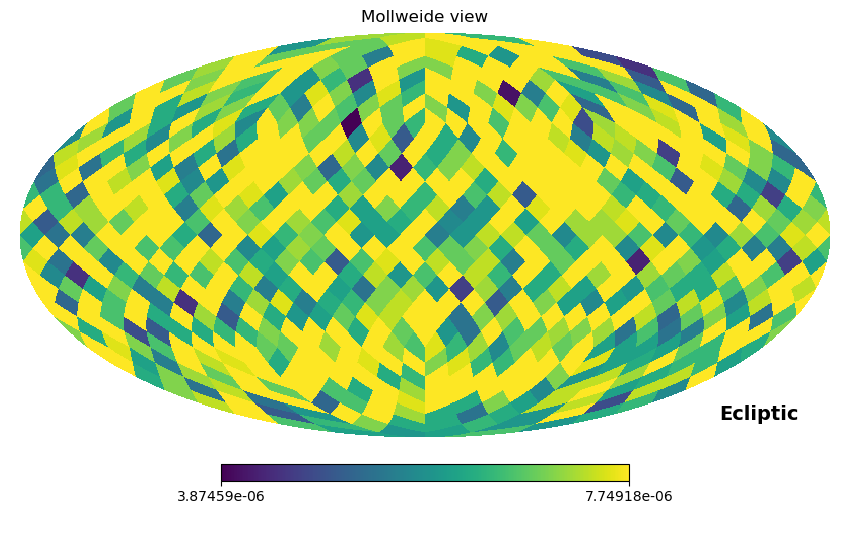
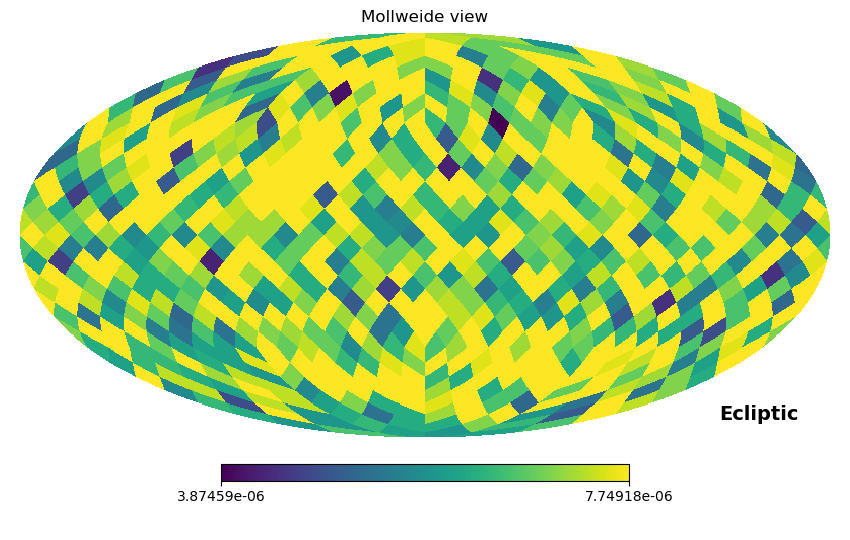
update

diff --git a/density_sky.py b/density_sky.py
@@ -6,12 +6,21 @@ from astropy.coordinates import SkyCoord
 import astropy.units as u
 from astropy.table import Table
 
-# read TIC v8 within 100 pc
-dat = pd.read_csv("ticv8_100pc.csv")
-
-dpc = 50
+db="GAIA"
+if db == "TICv8":
+    # read TIC v8 within 200 pc this csv is computed in allthesky directory in whaleshark 
+    dat = pd.read_csv("ticv8_200pc.csv")
+elif db == "GAIA":
+    #read gaia 100pc
+    dat = pd.read_csv("gaia100pc.csv", delimiter=",")
+    
+dpc = 100
 plxcrit=1000.0/dpc
-datlim = dat[dat["plx"]>plxcrit]
+if db == "TICv8":
+    datlim = dat[dat["plx"]>plxcrit]
+elif db == "GAIA":
+    datlim = dat[dat["parallax"]>plxcrit]
+
 ra = datlim["ra"].values
 dec = datlim["dec"].values
 
@@ -27,7 +36,8 @@ fac=np.pi/180.0
 print(np.max(dec*fac+np.pi/2.0), np.min(dec*fac+np.pi/2.0))
 pixdat = hp.ang2pix(nside, np.pi/2.0 - dec*fac,ra*fac)
 density = np.bincount(pixdat)/np.sum(ra)
-hp.visufunc.mollview(density, coord="E", min=np.min(density),max=np.min(density)*2, flip="geo")
+mean = np.nanmean(density)
+hp.visufunc.mollview(density/mean, coord="E", min=np.min(density)/mean,max=np.min(density)*3/mean)#, flip="geo")
 
-plt.savefig("density"+str(dpc)+"pc.png")
+plt.savefig("density"+db+str(dpc)+"pc.png")
 plt.show()

diff --git a/plot_sky.py b/plot_sky.py
@@ -5,10 +5,10 @@ from astropy.coordinates import SkyCoord
 import astropy.units as u
 from astropy.table import Table
 
-# read TIC v8 within 100 pc
-dat = pd.read_csv("ticv8_100pc.csv")
+# read TIC v8 within 200 pc
+dat = pd.read_csv("ticv8_200pc.csv")
 
-dpc = 100
+dpc = 200
 plxcrit=1000.0/dpc
 datlim = dat[dat["plx"]>plxcrit]
 ra = datlim["ra"].values
@@ -28,7 +28,7 @@ coords = SkyCoord(ra=ra * u.deg, dec=dec * u.deg, frame='icrs')
 ycoords = SkyCoord(ra=yra * u.deg, dec=ydec * u.deg, frame='icrs')
 
 # Plot stars on the map
-ax.scatter(coords.ra.wrap_at(180 * u.deg).radian, coords.dec.radian, marker='o', s=0.3, c='blue', label='Stars',alpha=0.05)
+ax.scatter(coords.ra.wrap_at(180 * u.deg).radian, coords.dec.radian, marker='o', s=0.2, c='blue', label='Stars',alpha=0.02)
 #ax.scatter(coords.ra.wrap_at(180 * u.deg).radian, coords.dec.radian, marker='o', s=1, c='blue', label='Stars',alpha=0.1)
 
 # Plot Y-dwarfs on the map
